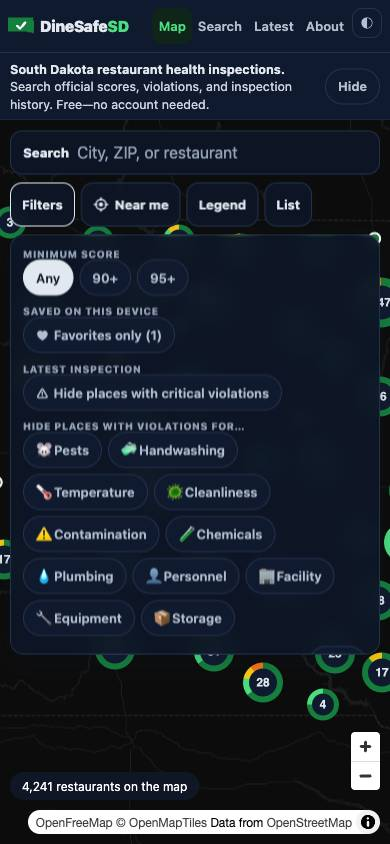
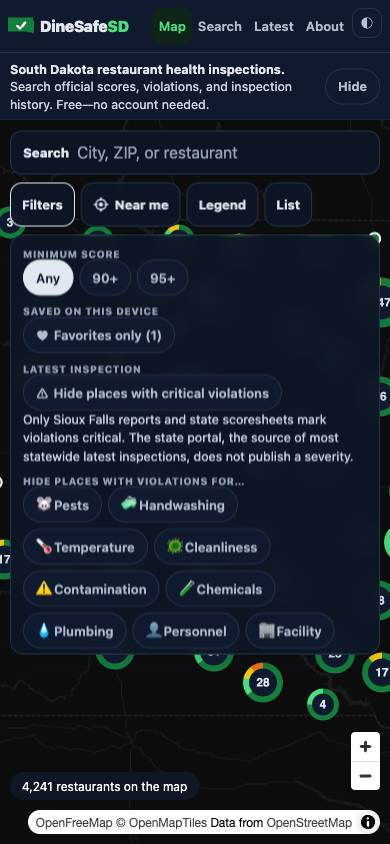
docs: record option A (official-only severity), results, and merge notes

Changed region(s): [[0.0615, 0.4929, 0.8923, 0.7701], [0.6462, 0.7393, 0.8308, 0.7701]]

diff --git a/docs/dinesafe-update-plan.md b/docs/dinesafe-update-plan.md
@@ -12,7 +12,7 @@ This file is a handoff record, not a lock.
 ```bash
 npm ci
 cd apps/web
-npm test                 # vitest: 22 unit tests
+npm test                 # vitest: 26 unit tests (+4 published-data contract tests owned by Codex, untracked)
 npm run build            # tsc (app) + tsc (scripts) + vite build + prerender
 npx wrangler@4 pages dev dist --port 8788 --compatibility-date 2026-05-01   # Cloudflare Pages emulator
 COUNT_ONLY_ID=sd_doh_al-s-hotwing-sauce-219-se-1st-ave-watertown npm run test:e2e   # in a second shell
@@ -23,17 +23,21 @@ than today's default date. `npm run test:e2e` writes `apps/web/e2e/results.json`
 `apps/web/e2e/screenshots/` (both git-ignored). A copy of the last run is in
 `docs/dinesafe-update-evidence/`.
 
-## Results of the last run (2026-11-12)
+## Results of the last run (2026-11-12, after the severity change)
 
 | Check | Command | Result |
 |---|---|---|
-| Unit tests | `npm test` | 22 passed, 0 failed |
+| Unit tests | `npm test` | 30 passed, 0 failed (26 of mine, 4 of Codex's `published-data.test.ts`) |
+| Pipeline type-check | `npx tsc --noEmit -p services/data-pipeline` | passed |
 | Production build | `npm run build` | passed; 4,486 restaurant pages + 7 static pages + 404 + sitemap (4,493 URLs) + robots in about 1.8 s |
-| Browser suite | `npm run test:e2e` | 251 passed, 0 failed |
-| Automated accessibility | axe-core 4.14, WCAG 2.0/2.1/2.2 A+AA tags, inside the browser suite | 40 runs (5 screens × 4 widths × 2 themes), 0 violations counted; map-marker spacing noted as exempt (see Remaining issues) |
+| Browser suite | `npm run test:e2e` | 274 passed, 0 failed |
+| Automated accessibility | axe-core 4.14, WCAG 2.0/2.1/2.2 A+AA tags, inside the browser suite | 48 runs (6 screens × 4 widths × 2 themes), 0 violations counted; map-marker spacing noted as exempt (see Remaining issues) |
+| Reindex | `npm run reindex` in `services/data-pipeline` | 4,486 restaurants reindexed; 2,791 data files changed; refresh date unchanged |
 
 The browser suite ran in headless Chromium (Puppeteer) against the production build on the
-Pages emulator, at 320, 390, 768, and 1280 px, in light and dark.
+Pages emulator, at 320, 390, 768, and 1280 px, in light and dark. One `npm run build` failed
+once in `vite build` and passed on immediate retry with no change; Codex was building in the
+same checkout at the time, which is the likely cause but was not confirmed.
 
 **Automated versus manual.** Everything in the table is automated. Manual work was limited to
 reading the screenshots in `docs/dinesafe-update-evidence/`. **Not done:** a real screen reader
@@ -78,23 +82,27 @@ Acceptance criteria:
 - Official scores, dates, descriptions, correction info, and attribution are unchanged.
 - The source link opens the exact record where possible; otherwise portal + copy-name + steps.
 
-What severity is traced to (no data or pipeline change):
+What severity is traced to (updated after the mapping failed verification; see below):
 
-| Record | Where "critical" comes from | Shown as |
+| Record | Where severity comes from | Shown as |
 |---|---|---|
 | Sioux Falls SWEEPS | The city report's "Critical Violations" / "Non-Critical Violations" headings (`sync-sioux-falls.ts`) | Critical / Non-critical, "per city report" |
 | SD DOH scoresheet PDF (codes 1–60) | The `*` mark on the state form (`pdf-parser.ts`) | Critical / Non-critical, "per state scoresheet" |
-| SD DOH portal citation (codes like `44:02:07:24`) | **The pipeline's own mapping from the rule-section number** (`sd-doh.ts` `mapSDCodeToSeverity`). The portal publishes no severity. | Critical / Major / Minor, "DineSafeSD classification", with an explanation on the page |
+| SD DOH portal citation (codes like `44:02:07:24`) | Nothing. The portal publishes no severity and the rule does not rank its sections. | "Severity not published", "state portal citation" |
 
-The Pizza Ranch example is the third kind. The UI no longer presents it as an official severity.
+The Pizza Ranch example is the third kind. Its card and report now agree: 2 violations recorded,
+no critical claim. Official-critical behavior is exercised with `sf_sweeps_144` (score 97 with a
+critical violation under the city's heading).
 
 Changed files: `src/lib/inspection.ts`, `src/lib/sources.ts`, `src/components/RestaurantReport.tsx`,
 `src/components/QuickView.tsx`, `src/components/ResultCard.tsx`, `src/pages/RestaurantPage.tsx`,
 `src/pages/LatestPage.tsx`, `src/pages/AboutPage.tsx`, `src/types.ts`.
 
-Evidence: unit tests `severity provenance`, `inspectionFindings`, `latestStatus`, `official source links`;
-browser checks beginning `report:`, `unknown:`, `none recorded:`, `source:`, `latest: no “Clean” wording`;
-screenshots `report-critical-full-*.jpg`, `report-unknown-390-light.jpg`.
+Evidence: unit tests `severity provenance`, `inspectionFindings`, `index flags from before severity rules 2`,
+`latestStatus`, `official source links`; browser checks beginning `report`, `map card:`, `search card:`,
+`unknown:`, `none recorded:`, `source:`, `latest: no “Clean” wording`;
+screenshots `report-critical-full-*.jpg` (official mark), `report-portal-full-390-dark.jpg` (portal citations),
+`quickview-official-critical-desktop-light.jpg`, `report-unknown-390-light.jpg`.
 SWEEPS deep link checked by hand against the live city site for site 715 (same facility, date, score).
 
 ### 2. Homepage and mobile — Claude — done
@@ -182,8 +190,10 @@ screenshots `report-saved-390-light.jpg`, `search-new-report-390-light.jpg`,
 
 ## Remaining issues
 
-1. **The rule-section severity mapping failed verification (2026-11-12). Decision needed.**
-   See "Severity mapping verification" below.
+1. **Critical flags now cover far fewer restaurants.** After option A, 143 Sioux Falls restaurants
+   carry a critical flag and no state-inspected restaurant does, because every state latest
+   inspection comes from the portal. The two critical filters say so in a note. This is the
+   honest state of the published data, not a defect, but it changes what those filters do.
 2. **Screen reader and real-device testing not done** (see "Automated versus manual").
 3. **Map marker spacing.** axe reports two overlapping markers at 390 px. WCAG 2.5.8 exempts
    targets whose position is essential and names map pins; recorded as exempt, not fixed.
@@ -242,13 +252,46 @@ and are not flagged.
 
 Conclusion: the ranges are not verified and should not be presented as severity.
 
-Options (not implemented; both rewrite published data, so they belong in the pipeline workflow):
+Decision (owner, 2026-11-12): **option A — stop classifying portal citations.** Option B (a
+crosswalk confirmed by SD DOH) was not chosen.
 
-- **A (recommended).** Stop classifying portal citations. Store them as unclassified, recompute
-  `has_critical_violations` from official marks only (Sioux Falls headings, scoresheet marks), and
-  have the site say "The state portal does not publish a severity for this violation."
-- **B.** Replace the ranges with a section-to-scoresheet-item crosswalk confirmed by SD DOH, and
-  label the result as derived from the state form. Needs the department to confirm the crosswalk.
+### Option A as implemented
+
+Pipeline (`services/data-pipeline`):
+- `sources/sd-doh.ts`: `mapSDCodeToSeverity` removed; portal citations are recorded as `unclassified`.
+- `lib/store.ts`: `publishedSeverity(source, code, severity)` is applied on every violation write
+  and again in `save()`, so severities written under the old rules, or merged in from an older
+  snapshot by `merge-data.ts`, are normalized. `has_critical_violations` therefore comes only from
+  official marks. A full reindex stamps `severity_rules: 2` on `index.json` and does not move
+  `updated_at` (visitors see that as the data refresh date).
+- `npm run reindex` script added; `.github/workflows/data-pipeline.yml` gains a `reindex` mode.
+- Raw citations, descriptions, scores, dates, and counts are untouched.
+
+Site (`apps/web`):
+- `lib/inspection.ts`: severity is shown only where the record states it; portal citations read
+  "Severity not published" regardless of what a data file says.
+- `lib/api.ts` `applySeverityRules`: if `index.json` has no `severity_rules: 2` stamp, state
+  critical flags are ignored. This makes deploy order safe: the site is correct whether or not
+  the data has been reindexed yet.
+- Critical filters on the map and in Search carry a note about which records have official marks.
+
+Data: commit "data: reindex under severity rules 2" rewrites 2,791 files under
+`apps/web/public/data` (12,683 portal citations set to `unclassified`; 1,329 state flags cleared;
+nothing else in the index changed). It is a separate commit so it can be dropped.
+
+**Merging.** The daily bot commits data to `main`, so the data commit will conflict there
+(`index.json` certainly). Resolve by taking `main`'s data and re-running the reindex, which is
+deterministic:
+
+```bash
+git checkout --theirs apps/web/public/data   # or --ours, whichever side is main in your merge
+cd services/data-pipeline && npm run reindex
+```
+
+Or drop the data commit before merging and run the workflow once with mode `reindex` afterward.
+
+Not addressed here: the other findings in `docs/dinesafe-review.md` (R2–R10). R1 is this change
+and awaits Codex's independent check.
 
 ## Codex review
 
